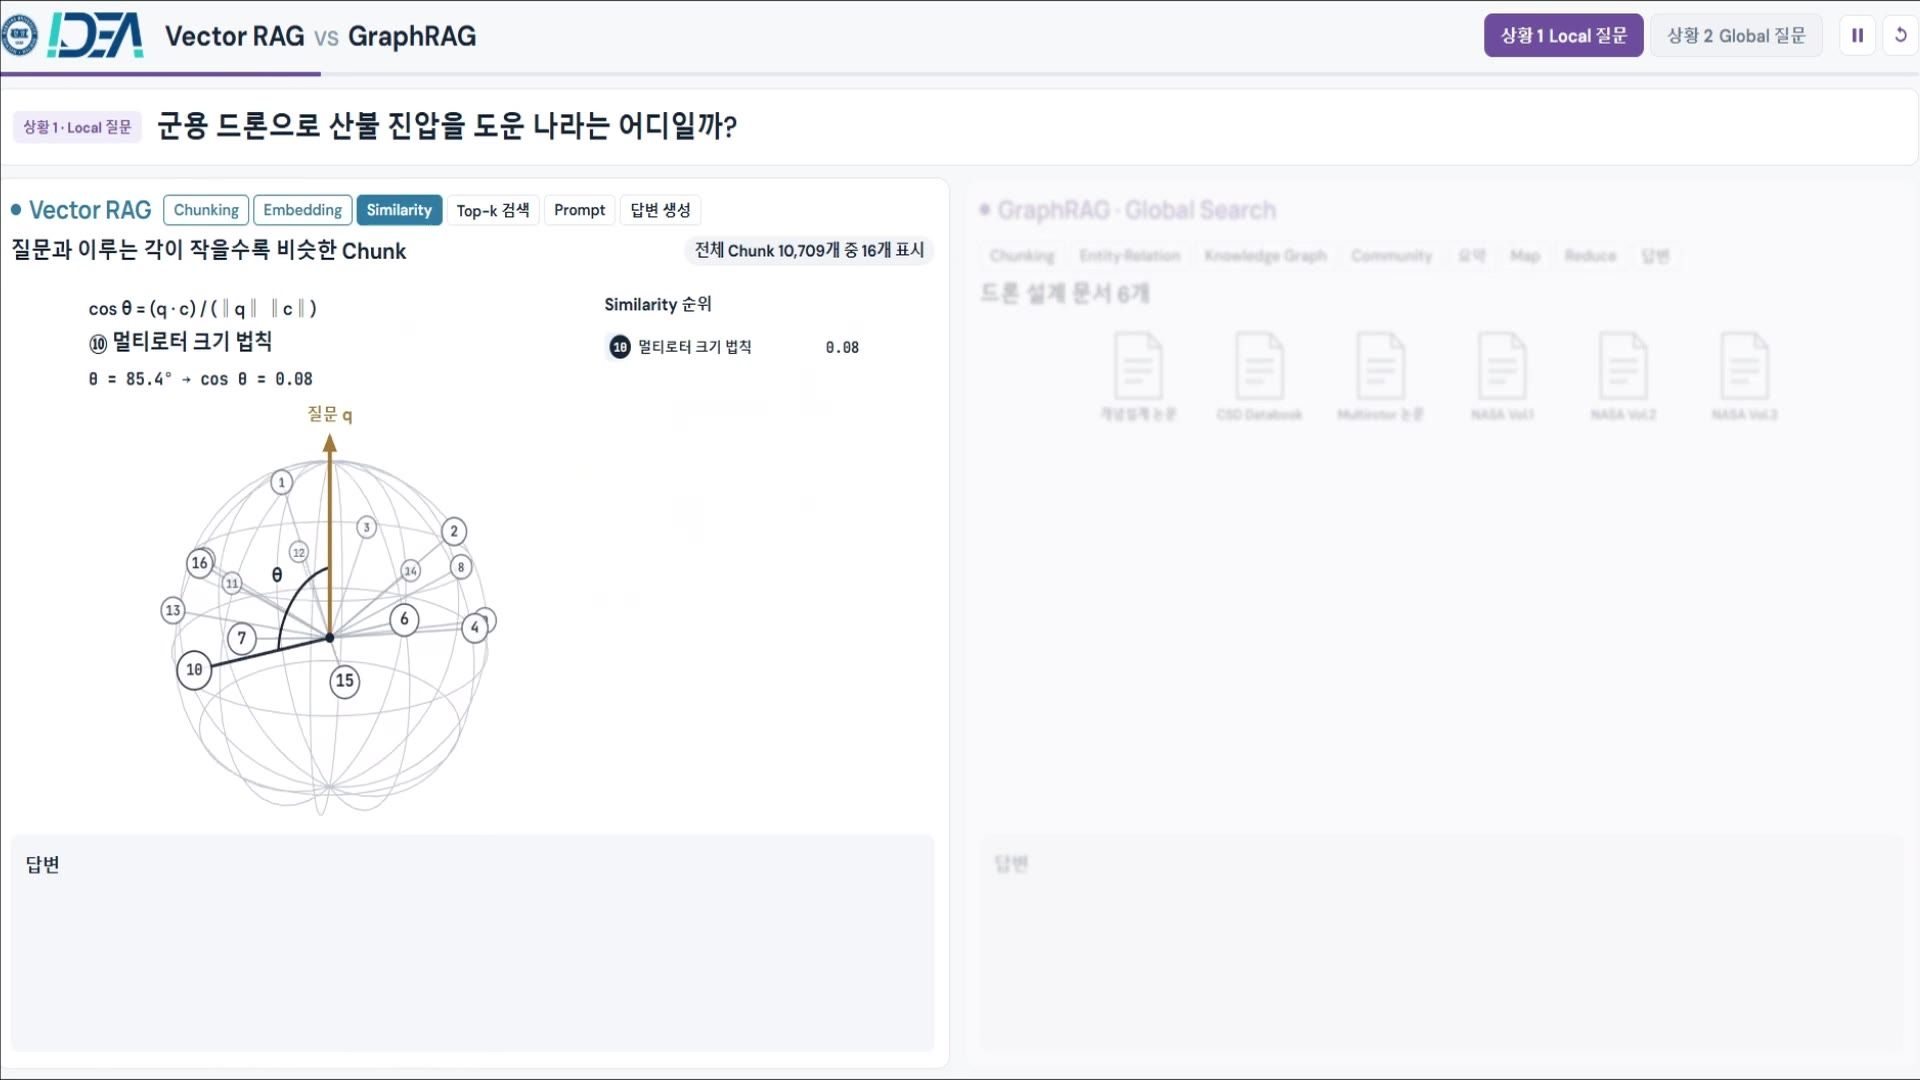
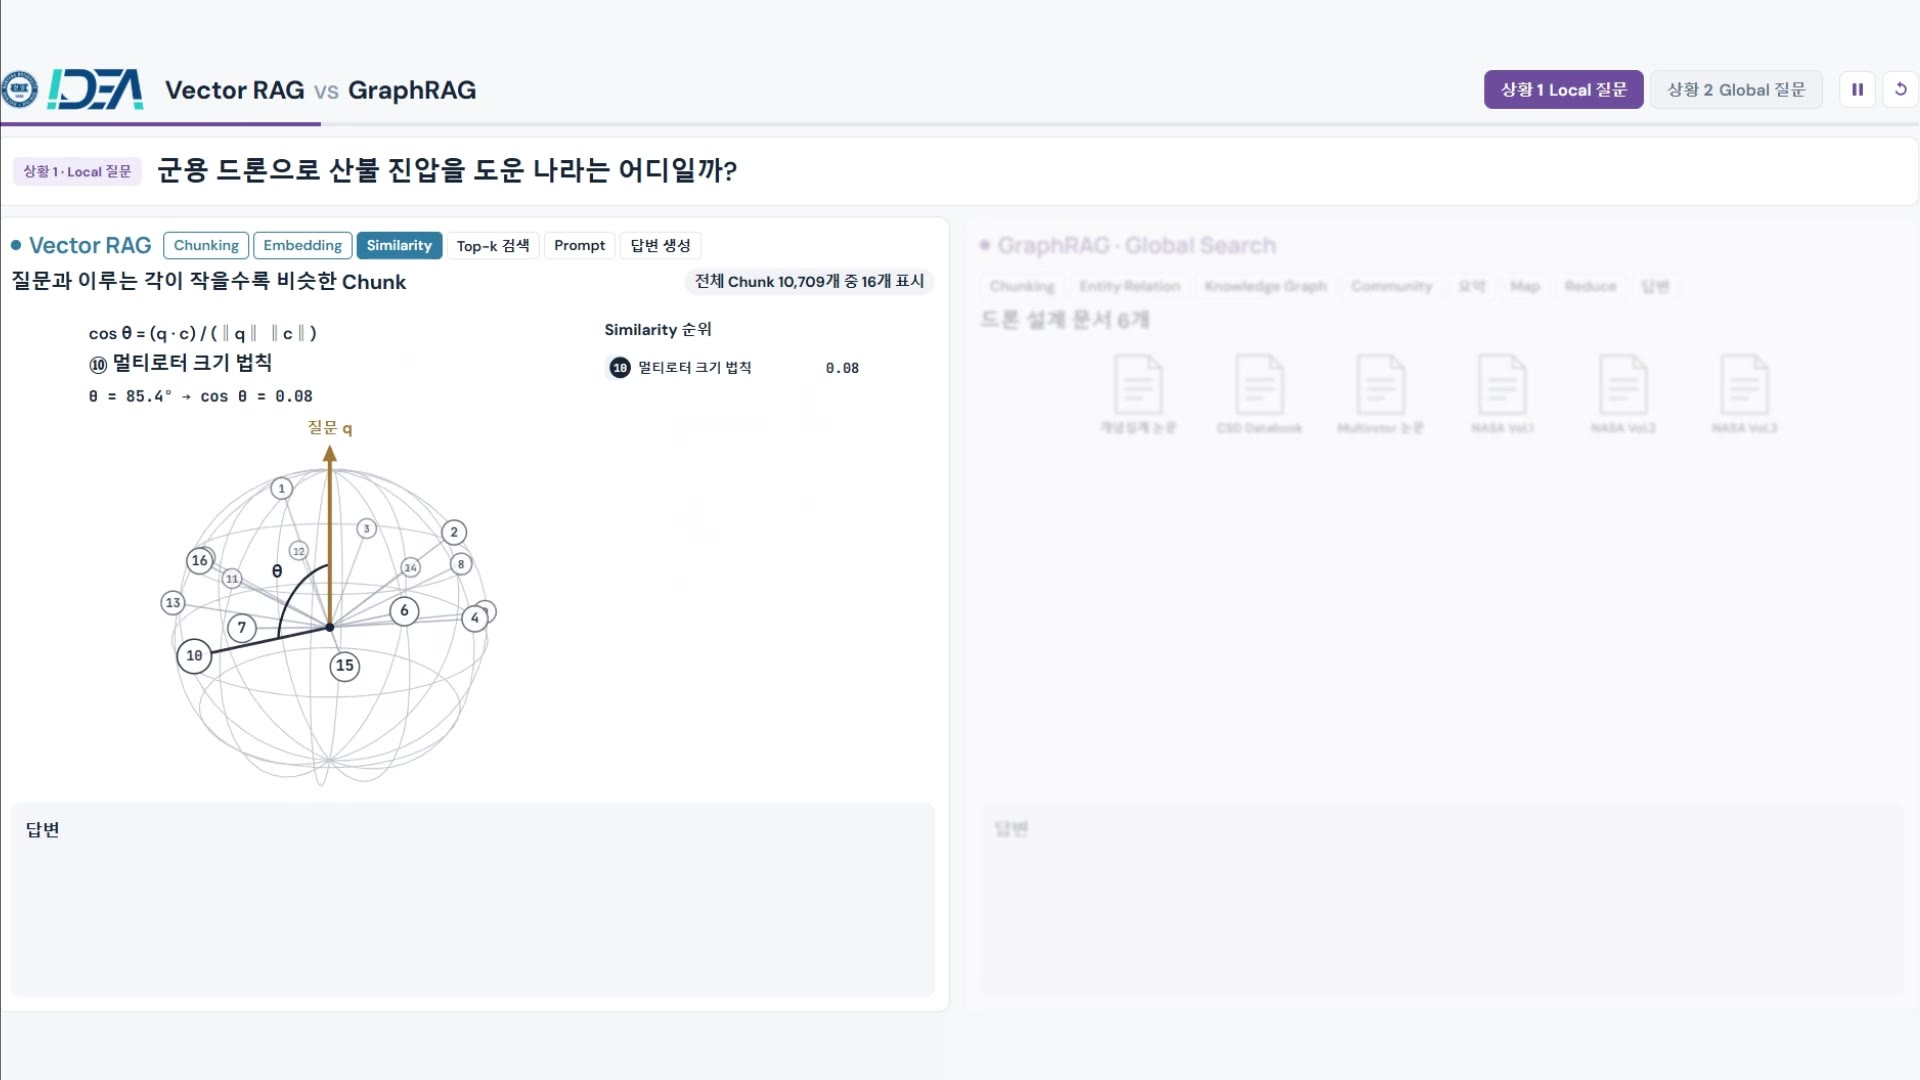
Refresh uploaded demo previews and match video frames to the card background

diff --git a/index.html b/index.html
@@ -4,7 +4,7 @@
 <title>Dong-u Shin · IDEA LAB</title><link rel="icon" type="image/png" sizes="64x64" href="assets/images/favicon-hanyang.png"/>
 <link rel="shortcut icon" href="assets/images/favicon.ico" type="image/x-icon"/>
 <link rel="apple-touch-icon" sizes="180x180" href="assets/images/apple-touch-icon.png"/>
-<link rel="stylesheet" href="assets/css/style.css?v=20261107-video-16x9"/><script src="assets/js/main.js?v=20261106-comments" defer></script><link rel="stylesheet" href="assets/css/site-theme.css?v=20261106-comments"/><script src="assets/js/site-shell.js?v=20261106-inline-logo" defer></script></head>
+<link rel="stylesheet" href="assets/css/style.css?v=20261107-video-refresh"/><script src="assets/js/main.js?v=20261106-comments" defer></script><link rel="stylesheet" href="assets/css/site-theme.css?v=20261106-comments"/><script src="assets/js/site-shell.js?v=20261106-inline-logo" defer></script></head>
 <body data-page="home" class="site-v2 "><a class="skip-link" href="#main">Skip to content</a>
 <header class="site-header unified-header"><div class="unified-header-inner"><a class="unified-brand" href="index.html" aria-label="Dong-u Shin home"><img src="assets/images/idea-logo-white.png" alt="IDEA LAB"/><span>Dong-u Shin<small>ENGINEERING INTELLIGENCE</small></span></a><button class="unified-menu-toggle" type="button" aria-expanded="false" aria-controls="primary-nav" aria-label="Open navigation"><svg viewBox="0 0 24 24" width="22" height="22" fill="none" stroke="currentColor" stroke-width="1.5" aria-hidden="true"><path d="M4 6h16M4 12h16M4 18h16"/></svg></button><nav class="unified-nav" id="primary-nav" aria-label="Main navigation"><a href="index.html" aria-current="page">Home</a><a href="about.html">About</a><a href="research.html">Research</a><a href="publications.html">Publications</a><a href="news.html">News</a></nav></div></header>
 <main id="main"><section class="hero home-hero"><div class="hero-tech-bg" aria-hidden="true"><img src="assets/images/bg-wireframe-drone.svg" class="hero-float hero-drone" alt=""/><img src="assets/images/bg-data-ai-kg.svg" class="hero-float hero-knowledge" alt=""/><div class="hero-glow hero-glow-1"></div><div class="hero-glow hero-glow-2"></div></div><div class="container hero-grid">
@@ -15,10 +15,10 @@
 </div></div></section>
 <section class="home-focus" aria-labelledby="home-focus-title"><div class="container"><div class="home-focus-heading"><h2 id="home-focus-title">Research Focus</h2></div><div class="home-focus-grid" id="home-research-grid"><p>Loading research focus…</p></div></div></section>
 <section class="section home-demo" aria-labelledby="home-demo-title"><div class="container"><div class="research-demo">
-<div class="research-demo-preview home-demo-video"><video controls autoplay muted loop playsinline preload="metadata" poster="assets/images/graphrag-demo.png?v=20261107-video-16x9" aria-label="Inside GraphRAG demonstration video"><source src="assets/videos/graphrag-demo.mp4?v=20261107-video-16x9" type="video/mp4"/>Your browser does not support embedded video. <a href="assets/videos/graphrag-demo.mp4?v=20261107-video-16x9">Open the demo video</a>.</video></div>
+<div class="research-demo-preview home-demo-video"><video controls autoplay muted loop playsinline preload="metadata" poster="assets/images/graphrag-demo.png?v=20261107-video-refresh" aria-label="Inside GraphRAG demonstration video"><source src="assets/videos/graphrag-demo.mp4?v=20261107-video-refresh" type="video/mp4"/>Your browser does not support embedded video. <a href="assets/videos/graphrag-demo.mp4?v=20261107-video-refresh">Open the demo video</a>.</video></div>
 <div class="research-demo-copy"><h2 id="home-demo-title">Inside GraphRAG</h2><div class="demo-process" aria-label="Community detection transforms a knowledge graph into communities"><span>Knowledge Graph</span><span class="demo-process-arrow" aria-hidden="true">→</span><strong>Communities</strong><small>Community Detection</small></div><p>Discover how a drone knowledge graph is organized into hierarchical communities. Watch the process, then explore each step in the interactive demo.</p><a class="home-demo-button" href="demos/graphrag/index.html?v=20261107-clean-title" target="_blank" rel="noopener noreferrer" aria-label="Open Demo (opens in a new tab)">Open Demo<svg viewBox="0 0 20 20" width="16" height="16" fill="none" stroke="currentColor" stroke-width="1.5" stroke-linecap="round" stroke-linejoin="round" aria-hidden="true" focusable="false"><path d="M11 3h6v6M17 3l-8 8M8 4H4a1 1 0 0 0-1 1v11a1 1 0 0 0 1 1h11a1 1 0 0 0 1-1v-4"/></svg></a></div>
 </div></div></section><section class="section home-demo comparison-demo" id="rag-comparison" aria-labelledby="comparison-demo-title"><div class="container"><div class="research-demo">
-<div class="research-demo-preview home-demo-video"><video controls autoplay muted loop playsinline preload="metadata" poster="assets/images/rag-comparison-demo.jpg?v=20261107-video-16x9" aria-label="Vector RAG vs GraphRAG comparison demonstration video"><source src="assets/videos/rag-comparison-demo.mp4?v=20261107-video-16x9" type="video/mp4"/>Your browser does not support embedded video. <a href="assets/videos/rag-comparison-demo.mp4?v=20261107-video-16x9">Open the comparison video</a>.</video></div>
+<div class="research-demo-preview home-demo-video"><video controls autoplay muted loop playsinline preload="metadata" poster="assets/images/rag-comparison-demo.jpg?v=20261107-video-refresh" aria-label="Vector RAG vs GraphRAG comparison demonstration video"><source src="assets/videos/rag-comparison-demo.mp4?v=20261107-video-refresh" type="video/mp4"/>Your browser does not support embedded video. <a href="assets/videos/rag-comparison-demo.mp4?v=20261107-video-refresh">Open the comparison video</a>.</video></div>
 <div class="research-demo-copy"><h2 id="comparison-demo-title">Vector RAG <span class="comparison-title-vs">vs</span> GraphRAG</h2>
 <div class="demo-process comparison-process" aria-label="Compare vector retrieval and graph-based global search"><span>Vector RAG</span><span class="demo-process-arrow" aria-hidden="true">vs</span><strong>GraphRAG</strong><small>Local &amp; Global Questions</small></div>
 <p>One question, two retrieval approaches. Compare how vector similarity and community-based global search retrieve evidence and shape an answer.</p>

diff --git a/assets/css/style.css b/assets/css/style.css
@@ -427,7 +427,7 @@
 .demo-process > strong{background:#e8f6f1;border:1px solid #d8eee5;color:#006e64}
 .demo-process-arrow { font-size: 25px; color: #7392ae; }
 .demo-process small { grid-column:1 / -1;justify-self:center;padding:4px 11px;border:1px solid #dcecf7;border-radius:20px;background:#eaf4fb;font-size:10px;font-weight:700;letter-spacing:.6px;color:#17638d; }
-.home-demo-video video { display: block; width: 100%; height: auto; aspect-ratio: 16 / 9; object-fit: contain; object-position: center; background: #111d30; }
+.home-demo-video video { display: block; width: 100%; height: auto; aspect-ratio: 16 / 9; object-fit: contain; object-position: center; background: var(--white, #fff); }
 .home-demo-button { display: inline-flex; align-items: center; justify-content: center; gap: 10px; min-height: 44px; padding: 12px 18px; border: 1px solid #644697; border-radius: 8px; background: #644697; color: var(--white); font: 700 12px/1.4 'Manrope', sans-serif; }
 .home-demo-button:hover { background: #52357f; border-color:#52357f; }
 @media(max-width:360px){.demo-process{gap:8px 6px}.demo-process > span:not(.demo-process-arrow),.demo-process > strong{font-size:13px;padding:12px 6px}.demo-process-arrow{font-size:22px}}
